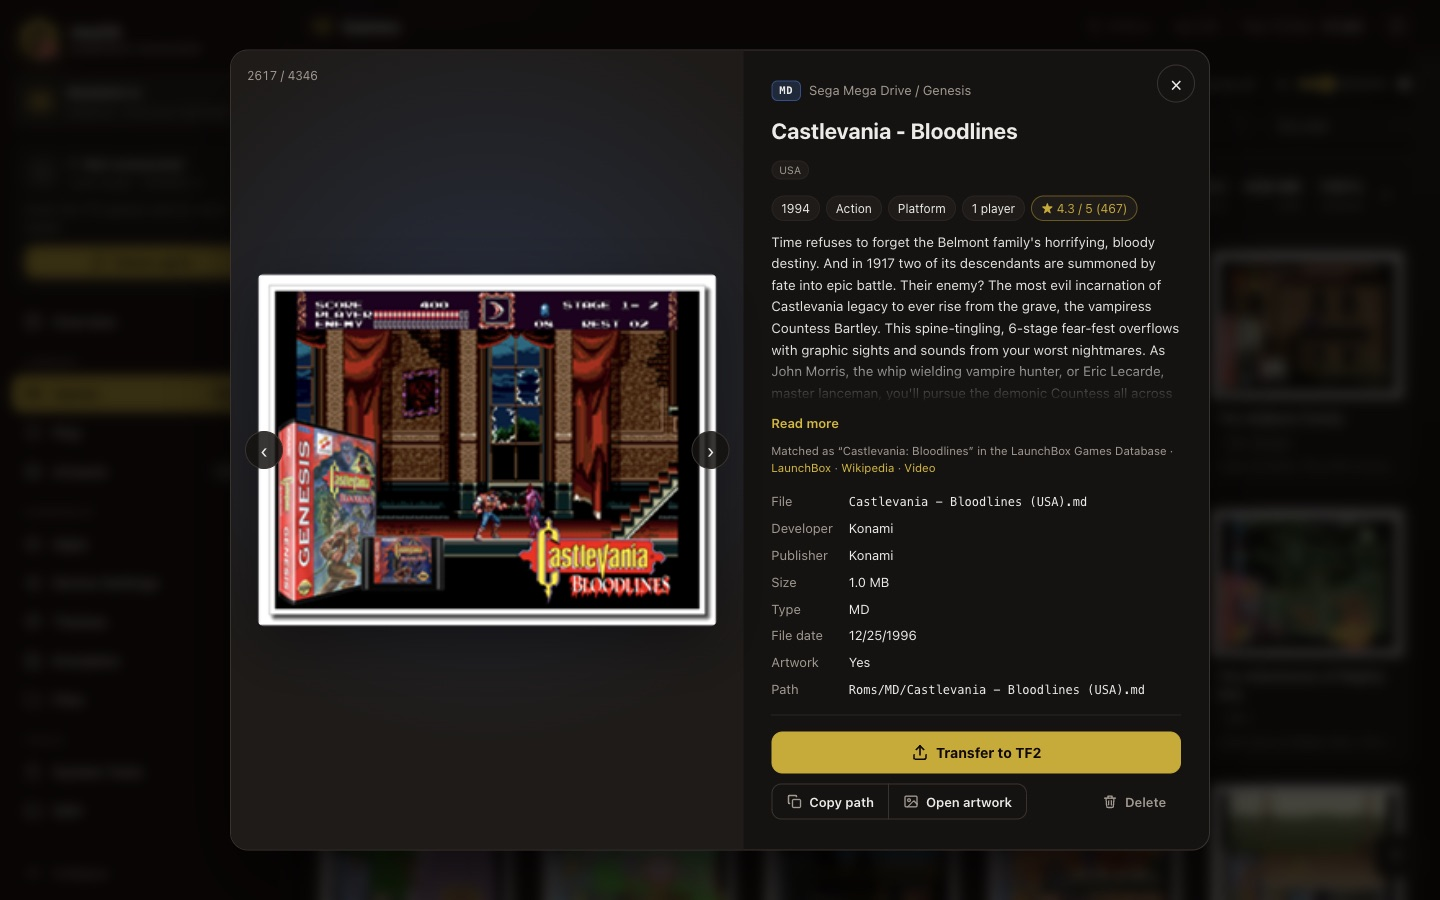
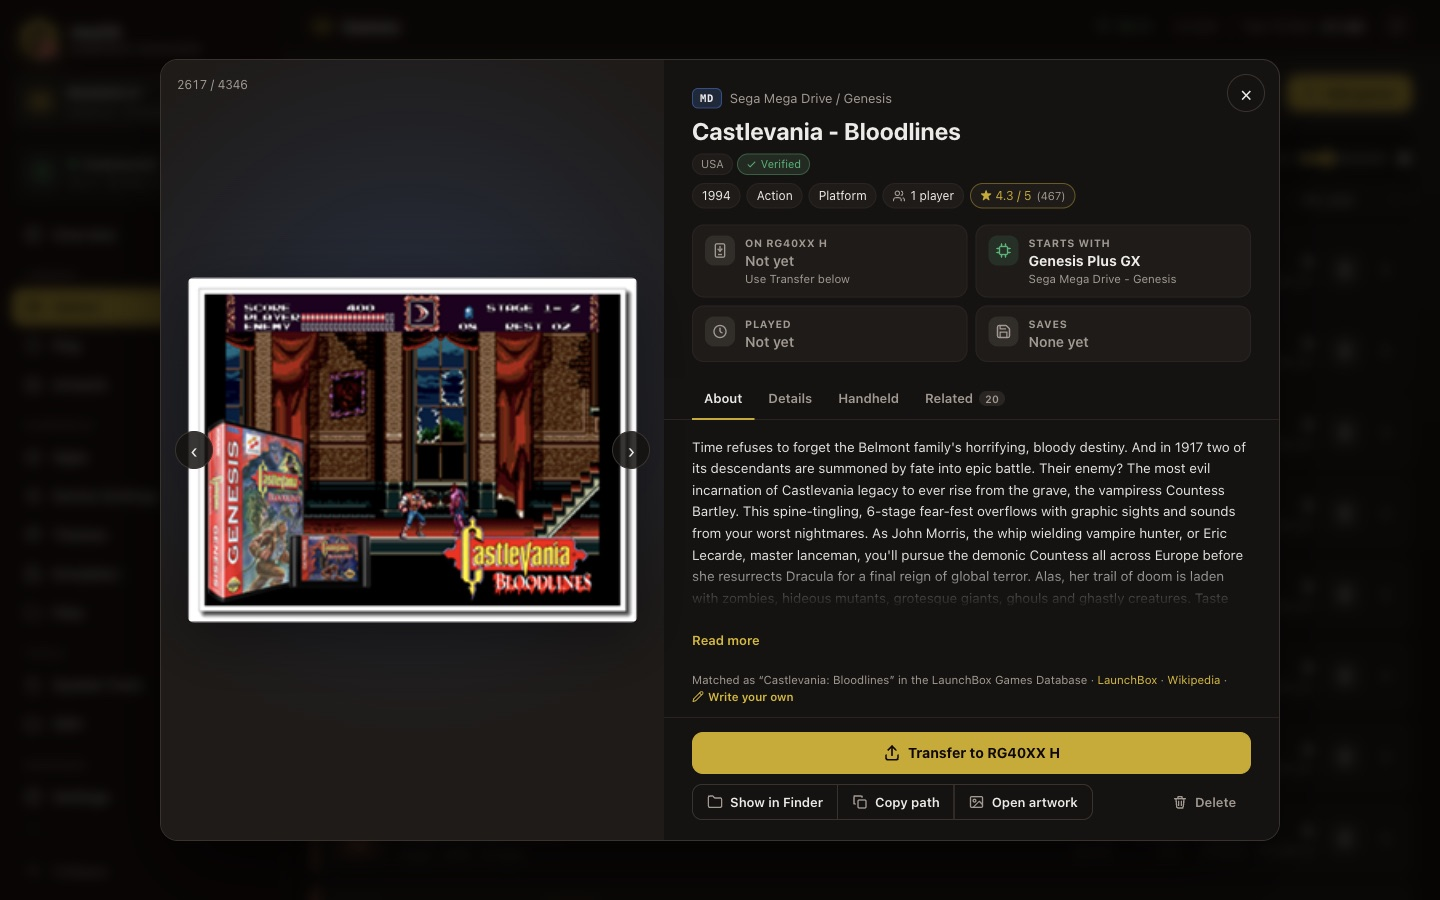
Add CHANGELOG.md with release notes and version history
README features, screenshot and links, wiki note on What's new, and the
update dialog's What's new now opens the changelog. CONTRIBUTING, the
release skill and the versioning rule say how to keep it.

diff --git a/public/js/wiki.js b/public/js/wiki.js
@@ -30,7 +30,9 @@ const ARTICLES = [
       <p><b>Updates.</b> The version next to the clock turns into <b>Update</b> when GitHub has a newer one. <b>Update now</b> runs
       <code>git pull</code> in a copy installed with <code>git clone</code>, or downloads and swaps in the new files in a copy
       downloaded as a ZIP (the old files stay in <code>.update-old</code>), then restarts in the same tab.
-      ${path("Settings", "Check for manager updates")} turns the check off.</p>`],
+      ${path("Settings", "Check for manager updates")} turns the check off.</p>
+      <p><b>What's new.</b> Every version's changes are listed in <code>CHANGELOG.md</code> in the manager's folder; <b>What's new</b> in the
+      update dialog opens it on GitHub. Changes listed under <b>Unreleased</b> are already on GitHub and arrive with the next version.</p>`],
     ["Three ways to connect", `<ul>
       <li><b>Card reader.</b> Take the TF2 games card (on one-slot models, the only card) out of the handheld and put it in this computer. Fastest for copying many games, and needed for System Tools.</li>
       <li><b>USB cable.</b> On the handheld set ${path("Configuration", "Advanced Settings", "USB Function")} to <b>MTP</b>, then plug it in.</li>

diff --git a/public/js/manager-update.js b/public/js/manager-update.js
@@ -118,7 +118,7 @@ function render() {
     ${M.error ? `<p class="mgr-err">${icon("alert")}<span>${esc(M.error)}</span></p>` : ""}
     <ul class="mgr-facts">${facts}</ul>`;
   const busy = M.working || !!M.restarting;
-  foot.innerHTML = `${d.home ? `<a class="btn ghost" href="${esc(d.home)}/commits/main" target="_blank" rel="noopener">${icon("external")}<span>What's new</span></a>` : ""}
+  foot.innerHTML = `${d.home ? `<a class="btn ghost" href="${esc(d.home)}/blob/main/CHANGELOG.md" target="_blank" rel="noopener">${icon("external")}<span>What's new</span></a>` : ""}
     <span class="grow"></span>
     <button class="btn" data-mgr-act="check"${busy ? " disabled" : ""}>${M.working ? ICONS.spin : icon("refresh")}<span>Check now</span></button>
     ${d.newer && canUpdate ? `<button class="btn primary" data-mgr-act="update"${busy ? " disabled" : ""}>${icon("download")}<span>Update now</span></button>` : `<button class="btn" data-mgr-act="close">Close</button>`}`;

diff --git a/CHANGELOG.md b/CHANGELOG.md
@@ -1,0 +1,109 @@
+# Changelog
+
+All notable changes to muOS Anbernic Manager. The format follows [Keep a Changelog](https://keepachangelog.com/en/1.1.0/),
+and version numbers follow the policy in [CONTRIBUTING.md](CONTRIBUTING.md#versions): minor releases for new features,
+patch releases for fixes, major releases only for big or breaking changes.
+
+Running managers offer an update when the `VERSION` file on GitHub's `main` branch is higher than theirs. Changes under
+**Unreleased** are already on `main` (a `git pull` or a fresh download gets them) and are offered as an update with the
+next version number.
+
+## Version history
+
+| Version | Date | Highlights |
+| --- | --- | --- |
+| [Unreleased](#unreleased) | | Game viewer with handheld status and tabs, Emulation Systems tab, app market, Windows installer, factory reset, AGPL license |
+| [1.0.0](#100---2026-10-13) | 2026-10-13 | First public release |
+
+## [Unreleased]
+
+### Added
+
+- **Game viewer**: the big game view is redesigned around status cards and tabs.
+  - Tags for the library check (Verified, Bad dump, Modified), a missing BIOS, other versions in the library and MAME
+    clones, next to the year, genres, players and rating.
+  - With the handheld connected, cards show whether the game is on it, the core it starts with, play time and saves.
+    When the game's folder has no system on the handheld, the card offers a one-click fix (for example Arcade for CPS3).
+  - **About**: description with its source, an inline editor for your own description, and the game's YouTube video.
+  - **Details**: database facts, file size, date, CRC32 and path, the library check result, the BIOS files the system
+    needs, and the arcade parent or clone set (with a note when a clone's parent zip is missing).
+  - **Handheld**: core and how it was chosen, play history (total, launches, average session, first and last played,
+    cores used), collections and save files.
+  - **Related**: other versions, the arcade family, the same series, more from the developer and more of the genre,
+    with a Back link.
+  - Replace the artwork by dropping an image on it, and **Show in Finder** (Explorer on Windows) for the ROM.
+  - New API routes `GET /api/game` and `POST /api/game/reveal`.
+- **Emulation > Systems**: every library system with its status on the handheld. Folders in **Cores** that MustardOS
+  has no system for now explain why (their games run under another system, need a newer MustardOS with extra cores, or
+  have no core), and the editor preselects the recommended system and core.
+- **App market** on the Apps page: popular MustardOS apps with screenshots, release notes and stars. The package that
+  fits your handheld and MustardOS version is picked from GitHub's release feeds; **Get** downloads it into `apps/`.
+- **Windows installer**: `installer.cmd` and `run.cmd` do what `installer.sh` and `run.sh` do, including installing
+  Node.js with winget and restarting after updates.
+- **App shortcuts** with the manager's icon in Applications (macOS), the Start menu (Windows) or the app menu (Linux),
+  from the installers, the setup wizard or Settings.
+- **Settings > Factory reset**: moves the workspace folders and the manager's cache to the Trash, creates empty folders
+  and restarts into the setup wizard. You have to type RESET first, and the handheld is not touched.
+- **Settings > History and resets**: clear the activity log and view preferences on this computer, or the play time and
+  recently played list on the handheld. The cache panel can also clear online catalogues and ROM check results.
+- Recovery steps for a handheld that is not found over USB, in the connection panel, the wiki and the README.
+- Contributor guides: `AGENTS.md`, `CONTRIBUTING.md`, `docs/architecture.md`, and Cursor rules and skills.
+- This changelog. **What's new** in the Manager updates dialog opens it.
+
+### Changed
+
+- The license is now the GNU Affero General Public License v3.0 or later. Version 1.0.0 and earlier stay available
+  under MIT.
+- The app market lists the manager itself first, and **Send** is hidden for apps already installed on the handheld.
+- Confirm dialogs scroll when they are taller than the window.
+
+### Fixed
+
+- Settings are checked before any are applied, and saved atomically.
+- SSH commands retry cleanly and can be cancelled; SFTP uploads use an atomic rename.
+- Save backups fail on archive errors instead of saving a partial file; BIOS uploads stay inside the BIOS folder.
+- A library rescan requested during a scan runs again afterwards; symbolic links are skipped.
+- Moves to the Trash pick free names and work across disks.
+- Device listings include hidden folders where deletes need them.
+- Late answers from the server no longer overwrite a newer view, and scroll positions survive redraws.
+- The game viewer updates when the handheld connects or disconnects while it is open.
+- Accessibility: announced notifications, labelled dialogs and inputs, pressed states on toggle buttons, visible
+  keyboard focus.
+- Loading and error states in the app market and PortMaster have proper spacing.
+
+## [1.0.0] - 2026-10-13
+
+First public release, licensed under MIT.
+
+### Added
+
+- **Games**: the `Roms/` library by system, with search, filters (artwork, genre, rating, year), grid and list views,
+  drag-and-drop adding, transfer to the handheld, what is on the device, duplicate finder and delete.
+- **Artwork**: box art, screenshots and descriptions from libretro thumbnails and the LaunchBox Games Database, sized
+  for the handheld's screen, with sync to the device.
+- **Play**: play time, recently played games and collections from the handheld.
+- **ScummVM and ports**: ScummVM games with their data folders, free classic adventures with one-click download, and
+  the PortMaster catalogue with install and uninstall over Wi-Fi.
+- **Apps**: install `.muxapp` apps and `.muxupd` updates, and check for new MustardOS releases.
+- **Device Settings**: MustardOS settings (display, audio, network, interface and more) changed from the computer.
+- **Themes**: the community theme library filtered for the screen, with previews, install and apply.
+- **Emulation**: saves and save states backup and restore, BIOS check, cores per system or game, RetroArch options and
+  a library health check against the No-Intro lists.
+- **Files**: this computer and the handheld side by side, with copy, rename, delete, preview and editing.
+- **System Tools**: install MustardOS on an SD card, set up a games card (TF2), or wipe a card.
+- **SSH**: a terminal on the handheld in the browser.
+- **Wiki**: help for every page, a glossary and troubleshooting.
+- Every MustardOS handheld (13 Anbernic and TrimUI models), detected over USB and Wi-Fi, with a per-card model for card
+  readers.
+- Card reader, USB (MTP) and Wi-Fi (SFTP and SSH) connections.
+- `installer.sh` and a first-run setup wizard for the handheld, folders, connection and game data.
+- Update check against GitHub and one-click **Update now** for git clones and downloaded copies.
+
+### Notes
+
+- While it was being prepared, the release briefly carried the number 2.1.0 before it was set to 1.0.0. A copy
+  downloaded in that window reports 2.1.0 and will not offer updates until a version above 2.1.0 is out; update it
+  with `git pull` or a fresh download.
+
+[Unreleased]: https://github.com/aaronns87/muos-anbernic-manager/compare/bc43b5c...main
+[1.0.0]: https://github.com/aaronns87/muos-anbernic-manager/tree/bc43b5c

diff --git a/README.md b/README.md
@@ -35,6 +35,7 @@ per-session token. Nothing is uploaded anywhere.
 - [Safety](#safety)
 - [Troubleshooting](#troubleshooting)
 - [Development](#development)
+- [Changelog](CHANGELOG.md)
 - [Credits](#credits)
 - [License](#license)
 
@@ -43,6 +44,10 @@ per-session token. Nothing is uploaded anywhere.
 **Library**
 - **Games**: browse the whole `Roms/` library by system, with search, filters (artwork, genre, rating, year) and grid or list views.
   Add games by drag and drop, copy them to the handheld, see what is on the device and what is missing, and remove games.
+- **Game view**: each game's box art, description, video and database facts, its library check and BIOS needs, and,
+  with the handheld connected, whether it is on it, the core it starts with, play time, collections and saves. Related
+  games (other versions, series, developer, genre) are one click away, and you can write your own description or drop
+  in new artwork.
 - **Artwork**: fetch box art, screenshots and descriptions for every game (libretro thumbnails, LaunchBox Games Database),
   in the size your handheld's screen needs, and sync them to the device.
 - **Play**: play time, recently played games and collections from the handheld.
@@ -55,7 +60,8 @@ per-session token. Nothing is uploaded anywhere.
 - **Device Settings**: change MustardOS settings (display, audio, network, interface and more) from the computer.
 - **Themes**: browse the community theme library filtered for your screen, preview themes, install and apply them.
 - **Emulation**: back up and restore saves and save states, check BIOS files, choose emulator cores per system or game,
-  edit RetroArch options, and run a health check of your library.
+  edit RetroArch options, and run a health check of your library. **Systems** lists every system with what the
+  handheld can run, and why a system is missing when it cannot.
 - **Files**: this computer and the handheld side by side; copy, rename, delete, preview and edit config files.
 
 **Tools**
@@ -63,12 +69,13 @@ per-session token. Nothing is uploaded anywhere.
 - **SSH**: a terminal on the handheld in the browser, plus a quick look at its system.
 - **Wiki**: built-in help for every page, a glossary and troubleshooting.
 - **Updates**: the top bar shows when a new version is out, and **Update now** installs it with one click, whether you
-  cloned the repository or downloaded the ZIP.
+  cloned the repository or downloaded the ZIP. See [CHANGELOG.md](CHANGELOG.md) for what changed in each version.
+- **Settings**: folders, connections, caches, history resets and a factory reset that starts over from the setup wizard.
 
 ## Screenshots
 
 <p align="center"><img src="docs/screenshots/game.jpg" width="100%" alt="Game details"></p>
-<p align="center"><em>Every game with its box art, description, genre, rating and one-click transfer to the handheld.</em></p>
+<p align="center"><em>The game view: box art, description, rating and library check, the game's state on the handheld (core, play time, saves), and tabs for details, handheld data and related games.</em></p>
 
 <p align="center"><img src="docs/screenshots/artwork.jpg" width="100%" alt="Artwork coverage"></p>
 <p align="center"><em>Artwork: coverage per system, scraping what is missing, and syncing box art with the handheld.</em></p>
@@ -192,6 +199,8 @@ Your `Roms/`, workspace folders, settings and logins (`.cache/`) are never touch
 with `git -C muos-anbernic-manager pull`, then `run.sh`.
 
 The check only reads the version number from GitHub; turn it off under **Settings > Check for manager updates**.
+**What's new** in the update dialog opens [CHANGELOG.md](CHANGELOG.md), which lists the changes in every version and
+those already on `main` but not yet released.
 
 ## Connecting the handheld
 
@@ -274,6 +283,7 @@ interface is plain ES modules in `public/` with no framework or bundler. Issues 
 the tests and type check first, and keep changes that write to the handheld behind an explicit user action.
 
 - [CONTRIBUTING.md](CONTRIBUTING.md): setup, tests, pull requests and how versions are released.
+- [CHANGELOG.md](CHANGELOG.md): release notes and version history; add user-visible changes under **Unreleased**.
 - [docs/architecture.md](docs/architecture.md): module map, request flow, device access and the MustardOS paths used.
 - [AGENTS.md](AGENTS.md): short guide for coding agents; Cursor also picks up the rules in `.cursor/rules/` and the
   task guides in `.cursor/skills/` (feature workflow, testing, device access, releasing).

diff --git a/.cursor/skills/manager-release/SKILL.md b/.cursor/skills/manager-release/SKILL.md
@@ -23,9 +23,15 @@ Prefer minor over major. The new number must be higher than the current `VERSION
 ```
 - [ ] 1. Working tree clean, on main, up to date (git status, git pull --ff-only)
 - [ ] 2. Set the version
-- [ ] 3. npm run check && npm test
-- [ ] 4. Commit "Version X.Y.Z" and push
+- [ ] 3. Move CHANGELOG.md "Unreleased" to the new version
+- [ ] 4. npm run check && npm test
+- [ ] 5. Commit "Version X.Y.Z" and push
 ```
+
+In `CHANGELOG.md`: rename `## [Unreleased]` to `## [X.Y.Z] - YYYY-MM-DD`, add a fresh empty `## [Unreleased]`
+above it, add a row to the version history table, and update the links at the bottom (`[Unreleased]` compares the
+release commit with `main`; `[X.Y.Z]` points at the release commit, or at the tag if one is made). If Unreleased is
+empty, ask what the release contains before releasing.
 
 ```bash
 V=1.3.0
@@ -33,12 +39,12 @@ npm version "$V" --no-git-tag-version      # package.json + package-lock.json
 printf '%s\n' "$V" > VERSION
 node --test test/unit.test.ts --test-name-pattern "VERSION"
 npm run check && npm test
-git add VERSION package.json package-lock.json
+git add VERSION package.json package-lock.json CHANGELOG.md
 git commit -m "Version $V"
 git push origin main
 ```
 
-Release commits contain only the version change (features are committed before). Tags and GitHub releases are
+Release commits contain only the version change and the changelog (features are committed before). Tags and GitHub releases are
 optional; the update check reads `VERSION` on `main`, not tags.
 
 ## How users get it

diff --git a/.cursor/skills/manager-feature-workflow/SKILL.md b/.cursor/skills/manager-feature-workflow/SKILL.md
@@ -12,7 +12,7 @@ Copy this checklist and tick it off:
 - [ ] 2. Server logic + route
 - [ ] 3. Browser module / dialog
 - [ ] 4. Styles
-- [ ] 5. Wiki (and README if users notice)
+- [ ] 5. Wiki, CHANGELOG (and README if users notice)
 - [ ] 6. Tests
 - [ ] 7. Verify
 ```
@@ -51,6 +51,7 @@ Check the layout at 390 px wide as well as desktop.
 - Wiki: add or update the article in `ARTICLES` in `public/js/wiki.js`
   (`[id, icon, title, section, summary, [[heading, html], ...]]`), written for non-technical users.
 - README: features list or a section if users will look for it.
+- `CHANGELOG.md`: a line under **Unreleased** (Added, Changed, Fixed or Removed) for anything users notice.
 
 ## 6. Tests
 

diff --git a/CONTRIBUTING.md b/CONTRIBUTING.md
@@ -45,6 +45,10 @@ Versions follow `MAJOR.MINOR.PATCH` and are only changed by the maintainer, by h
 `VERSION`, `package.json` and `package-lock.json` must match (a test checks this). Minor releases are the
 norm; major releases are kept for big or breaking changes. Pull requests should not bump the version.
 
+Add a line for every change users will notice under **Unreleased** in [CHANGELOG.md](CHANGELOG.md) (Added, Changed,
+Fixed or Removed), written for users rather than developers. When releasing, the maintainer renames **Unreleased** to
+the new version and date and adds it to the version history table.
+
 ## License
 
 By contributing you agree that your contributions are licensed under the
